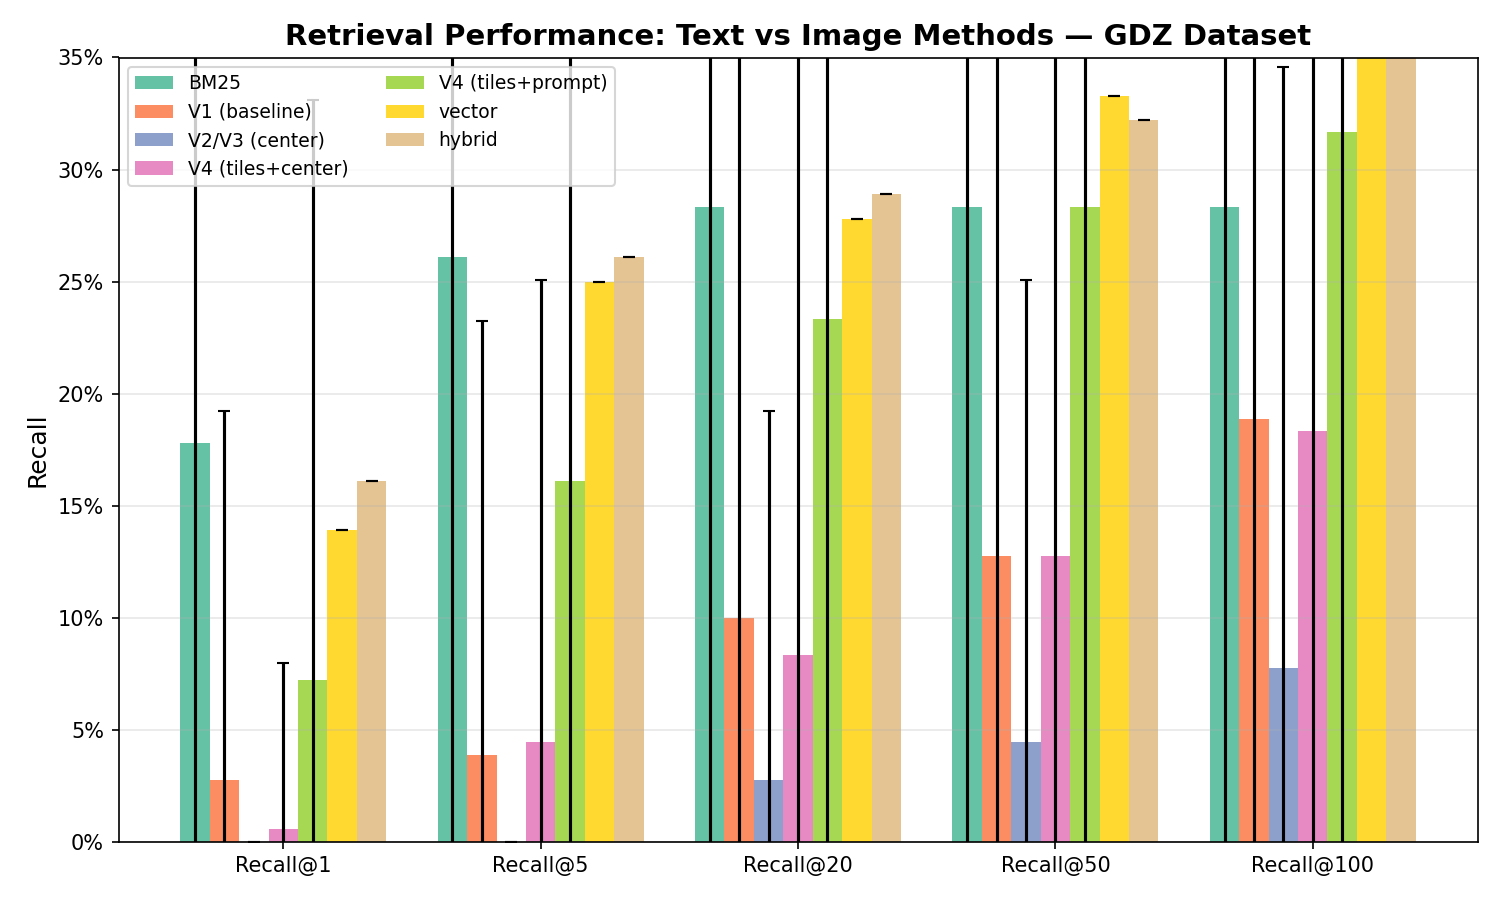
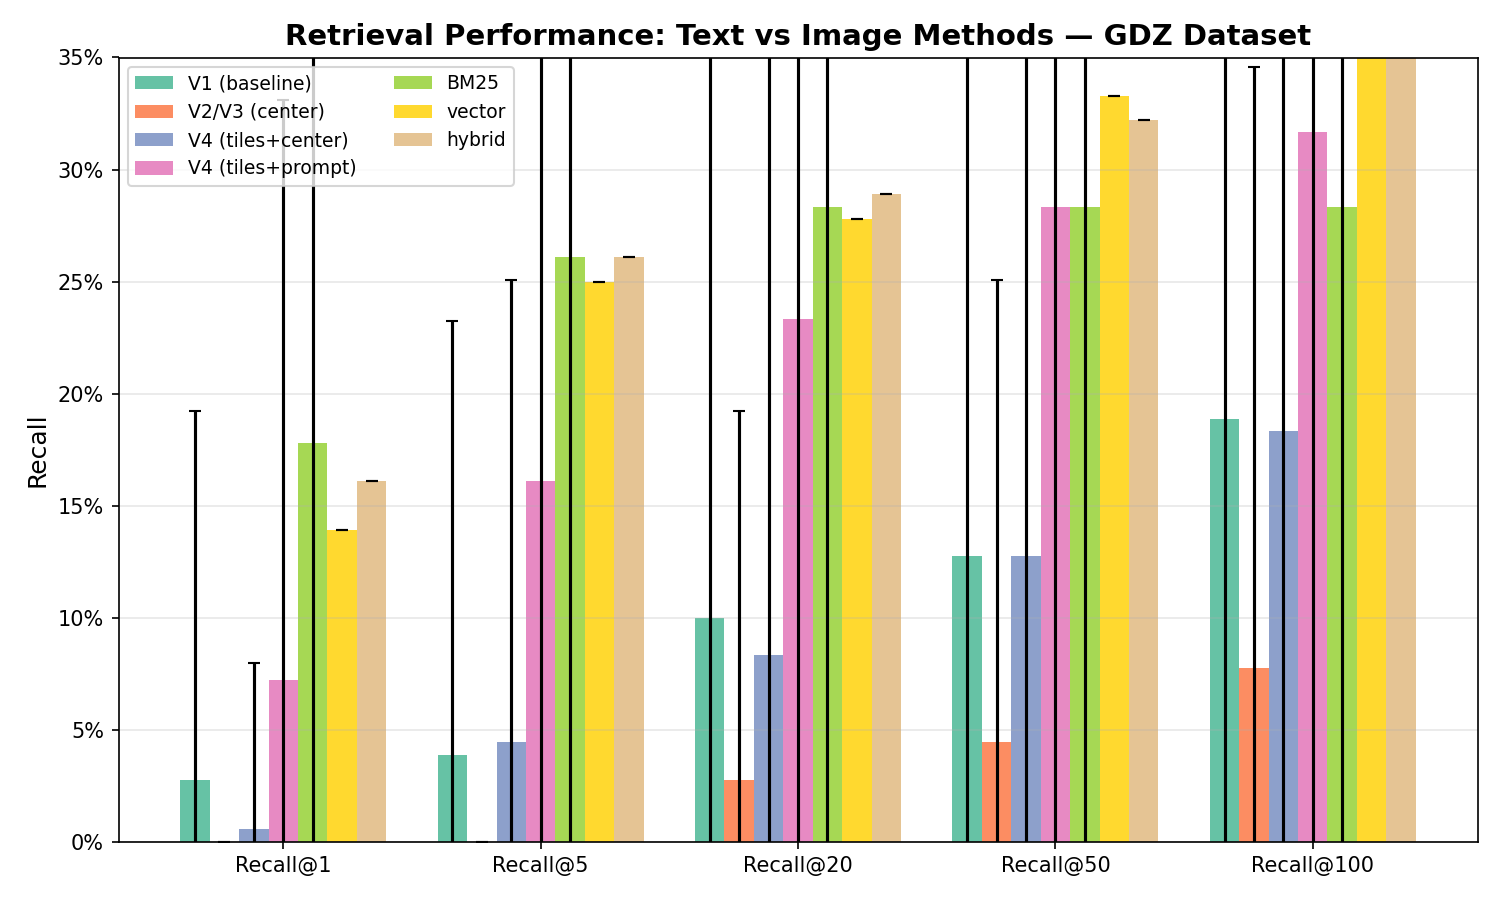
Fix plot_results.py: remove stale recall_bar.png, fix zero-width error bar caps, include all variants

diff --git a/scripts/plot_results.py b/scripts/plot_results.py
@@ -4,7 +4,7 @@
 Reads either trial JSON files (*-trial-1.json) or metrics JSON files
 (*-trial-1-metrics.json) and creates diagnostic plots:
 
-  1. recall_bar.png      — Recall@1/5/20 bar chart comparing all methods
+  1. recall_comparison.png — Recall@K bar chart comparing all methods (replaces old recall_bar.png)
   2. rank_dist.png       — Histogram of ground-truth rank positions
   3. query_latency.png   — Boxplot of per-query latency
   4. success_heatmap.png — Per-query hit/miss at k=1,5,20,50
@@ -206,7 +206,9 @@ def plot_recall_comparison(loaders, outdir):
                 stds.append(0.0)
         offset = (i - n / 2 + 0.5) * width
         color = colors[i % len(colors)]
-        ax.bar(x + offset, means, width, yerr=stds, label=ldr.label,
+        # Only show error bars when std is non-zero to avoid zero-width caps
+        yerr = np.array(stds) if any(s > 0 for s in stds) else None
+        ax.bar(x + offset, means, width, yerr=yerr, label=ldr.label,
                capsize=3, color=color)
 
     ax.set_xticks(x)
@@ -250,7 +252,8 @@ def plot_clip_ablation(loaders, outdir):
                 means.append(ldr.get_avg_recall(k))
                 stds.append(0.0)
         offset = (i - n / 2 + 0.5) * width
-        ax.bar(x + offset, means, width, yerr=stds, label=ldr.label,
+        yerr = np.array(stds) if any(s > 0 for s in stds) else None
+        ax.bar(x + offset, means, width, yerr=yerr, label=ldr.label,
                capsize=3, color=colors[i % len(colors)])
 
     ax.set_xticks(x)

diff --git a/scripts/plots/comparison_table.md b/scripts/plots/comparison_table.md
@@ -1,9 +1,9 @@
 | Method | R@1 | R@5 | R@20 | R@50 | R@100 |
 |---|---|---|---|---|---|
-| BM25 | 17.8% | 26.1% | 28.3% | 32.8% | 35.6% |
 | V1 (baseline) | 2.8% | 3.9% | 10.0% | 12.8% | 18.9% |
 | V2/V3 (center) | 0.0% | 0.0% | 2.8% | 4.4% | 7.8% |
 | V4 (tiles+center) | 0.6% | 4.4% | 8.3% | 12.8% | 18.3% |
 | V4 (tiles+prompt) | 7.2% | 16.1% | 23.3% | 28.3% | 31.7% |
+| BM25 | 17.8% | 26.1% | 28.3% | 32.8% | 35.6% |
 | vector | 13.9% | 25.0% | 27.8% | 33.3% | 36.7% |
 | hybrid | 16.1% | 26.1% | 28.9% | 32.2% | 37.8% |
